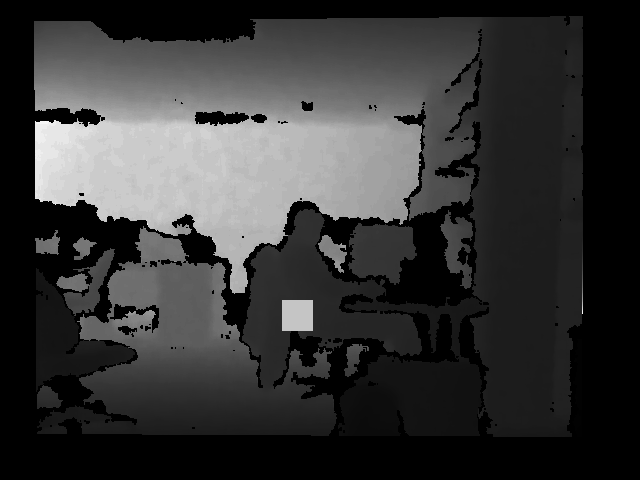
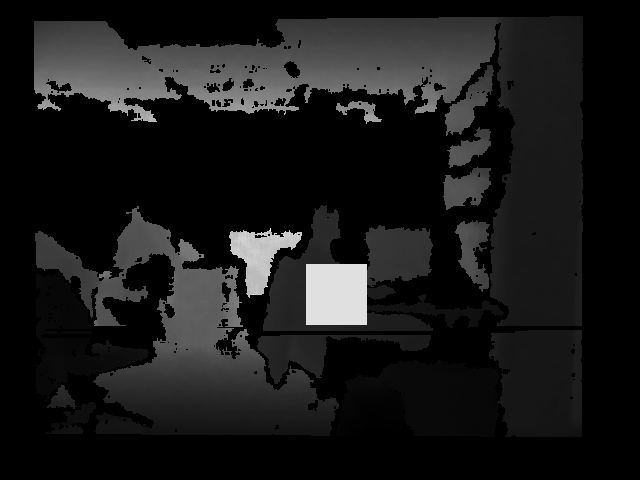
Working depth_mapping solution.

diff --git a/depth_mapping/depth_mapping.py b/depth_mapping/depth_mapping.py
@@ -78,42 +78,30 @@ def getDepths(req):
         # Iterate over the detections
         for detection in req.detections.array:
 
-            # ROI cv_depth_image (around person)
-            roi = cv_depth_image[detection.top_left_y:detection.top_left_y + detection.height,
-                                 detection.top_left_x:detection.top_left_x + detection.width]
-
-            # Store ROI coloured cv_depth_image
-
+            # Sliding window centre point
+            # and size of neighbours
+            d = 30
             i = detection.centre_x
             j = detection.centre_y
-            d = 15
 
-            cv_depth_image[i-d:i+d+1, j-d:j+d+1] = 8
-
-            store(cv_depth_image)
-
-            # Centre neighbours
-            neighbours = cv_depth_image[i-d:i+d+1, j-d:j+d+1].flatten()
-            neighbours = neighbours[~np.isnan(neighbours)]
-            print(neighbours[~np.isnan(neighbours)])
-
-            # Filter depth image from invalid values (NaN)
+            # Fetch window around the centre of the
+            # bounding box and get rid of NaN values
+            roi = cv_depth_image[j-d:j+d+1, i-d:i+d+1]
             roi = roi[~np.isnan(roi)]
-            print("ROI: ", roi[0])
-            # print(roi[~np.isnan(roi)])
+
+            print("ROI: ", roi)
 
             # Copy over detections items
             # for future 1 to 1 mapping
             distance = Distance()
             distance.ID = detection.ID
 
-            # Compute average distance
-            roi_sum = np.sum(roi)
-            # roi_sum = np.sum(neighbours)
+            # Compute average distance over
+            # ROI window
+            avr_distance = np.sum(roi) / roi.size
 
             # Average distance of the person
-            distance.distance = roi_sum / roi.size
-            # distance.distance = roi_sum / neighbours.size
+            distance.distance = avr_distance
 
             # Aggregate the distance to the
             # general distances array

diff --git a/pointcloud.py b/pointcloud.py
@@ -125,13 +125,13 @@ def doIt(points):
         # print(points.height)
         # print(points.width)
         # print(points.fields)
-        generator = read_points(points, field_names=['x', 'y', 'z'], skip_nans=False, uvs=[])
+        # generator = read_points(points, field_names=['x', 'y', 'z'], skip_nans=False, uvs=[])
         # for point in generator:
         #     print(point)
-        print(generator[0][0])
+        print(points)
 
     except Exception as e:
-        print('Error during image conversion: ', CvBridgeError)
+        print('Error during image conversion: ', e)
 
 def main(args):
 
@@ -140,7 +140,7 @@ def main(args):
 
     try:
         # Subscriptions (via Subscriber package)
-        point_sub = rospy.Subscriber("/xtion/depth_registered/points", PointCloud2, doIt)
+        point_sub = rospy.Subscriber("/xtion/depth_registered/image", Image, doIt)
 
         # Spin it baby !
         rospy.spin()

diff --git a/rgb_detection/cv_conversion.py b/rgb_detection/cv_conversion.py
@@ -113,12 +113,12 @@ def main(args):
 
     try:
         # Subscriptions (via Subscriber package)
-        rgb_sub   = message_filters.Subscriber("/xtion/rgb/image_raw", Image)
-        depth_sub = message_filters.Subscriber("/xtion/depth_registered/image", Image)
+        rgb_sub   = message_filters.Subscriber("/xtion/rgb/image_rect_color", Image)
+        depth_sub = message_filters.Subscriber("/xtion/depth_registered/image_raw", Image)
         # point_sub = message_filters.Subscriber("/xtion/depth_registered/points", PointCloud2)
 
         # Synchronize subscriptions
-        ats = message_filters.ApproximateTimeSynchronizer([rgb_sub, depth_sub], queue_size=5, slop=0.1)
+        ats = message_filters.ApproximateTimeSynchronizer([rgb_sub, depth_sub], queue_size=2, slop=0.1)
         ats.registerCallback(processSubscriptions)
 
         # Spin it baby !

diff --git a/rgb_detection/human_detection.py b/rgb_detection/human_detection.py
@@ -129,9 +129,7 @@ class PersonDetection:
                 cv2.circle(frame, centre_point, 4, (0,0,255), -1)
 
                 # Get 480x640 ratio points
-                centre_ratio_point = self.getRatioPoint(centre_point[0], centre_point[1])
-                top_left_ratio_point = self.getRatioPoint(top_left[0], top_left[1])
-                bottom_right_ratio_point = self.getRatioPoint(bottom_right[0], bottom_right[1])
+                ratio_point = self.getRatioPoint(centre_point[0], centre_point[1])
 
                 # Detection info
                 detection = Detection()
